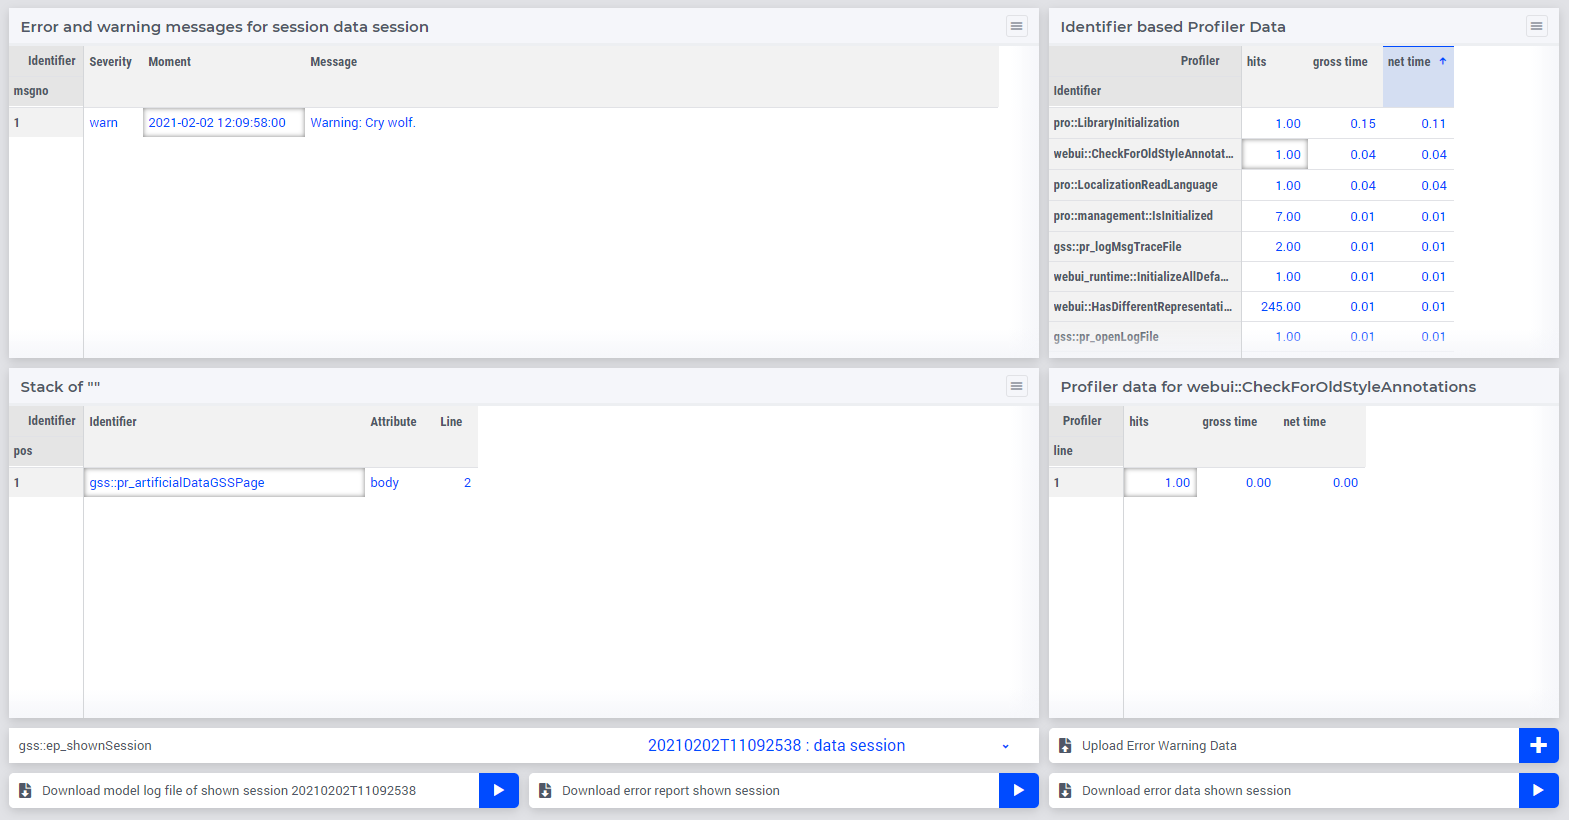
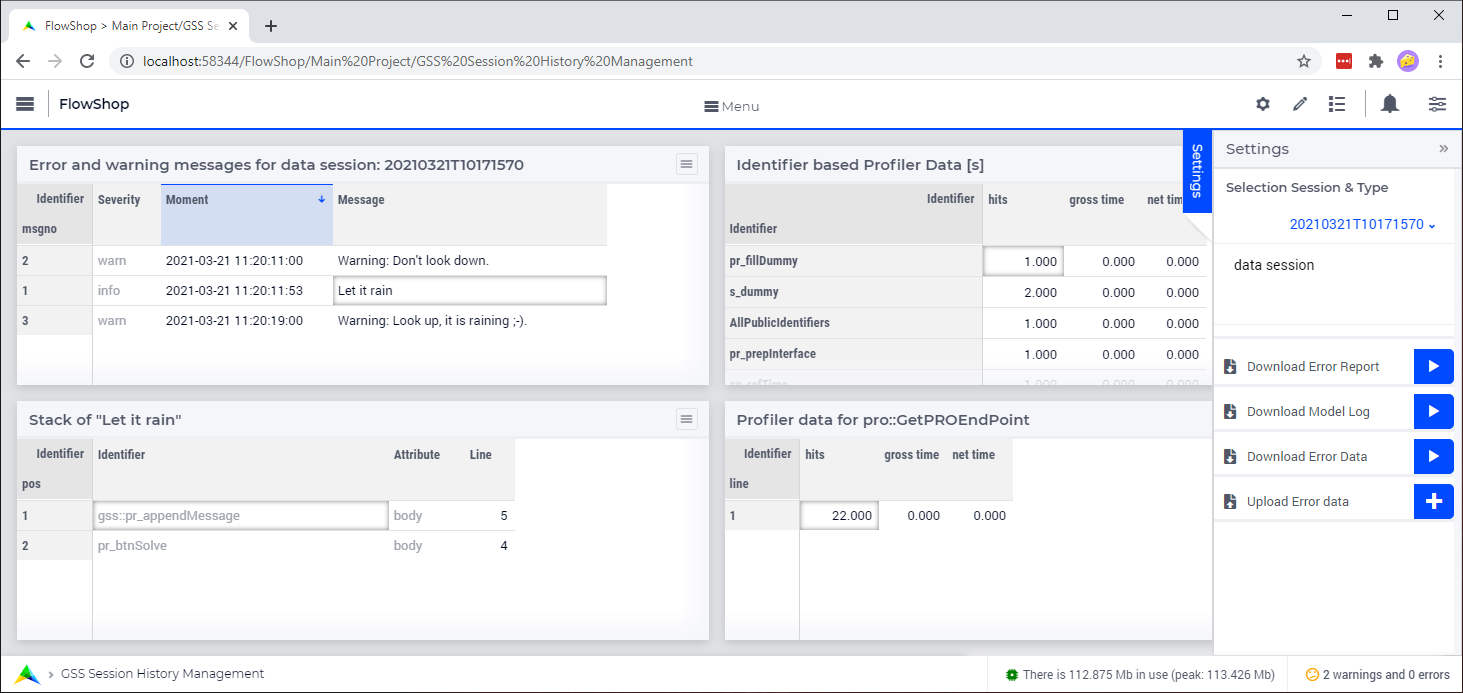
#310 Adapted documentation on how to create the "UI for specialists page"

diff --git a/Articles/310/310-install-gss-ui-for-specialists.rst b/Articles/310/310-install-gss-ui-for-specialists.rst
@@ -16,7 +16,10 @@ In this section, we create a sidepanel page first. This sidepanel wil be used in
 
 Create a side panel page with name ``sp_controls``. 
 Check the ``MainProject/WebUI/webui.json`` file; the page ``sp_controls`` should have "slug": ``sp_controls_1``.  
-If not, the slug needs to be renamed at two places in the ``webui.json`` file (with a closed AIMMS).
+If not, the slug needs to be renamed at two places in the ``webui.json`` file (with AIMMS closed).
+
+Status bar of your app should be set to ``gss::sp_messageStatusBar``, or to a string parameter that contains this information.
+
 
 Widgets on side panel
 ^^^^^^^^^^^^^^^^^^^^^^
@@ -61,10 +64,13 @@ The page ``GSS Session History Management`` has ``Action Upon Load`` set to ``gs
     
     If you have a multi page application, you might want to add this page to the group of "developer" or "control" pages in your application.
 
-Status bar of your app should be set to ``gss::sp_messageStatusBar``, or to a string parameter that contains this information.
+Make the page a grid page and give it standard layout 5, 
+see `Grid Layout for beautiful and consistent looking applications <https://community.aimms.com/aimms-webui-44/grid-layout-for-beautiful-and-consistent-looking-applications-728>`_
 
-Widgets
-^^^^^^^^^^^
+The page extensions > side panels property should be set to ```gss::sp_sidePanel``.
+
+Add the following Widgets
+^^^^^^^^^^^^^^^^^^^^^^^^^^^^^
 
 Below are the widgets recommended to build a user interface for the ``GuardServerSession`` library.
 
@@ -90,6 +96,8 @@ Below are the widgets recommended to build a user interface for the ``GuardServe
         #. Widget actions: ``gss::sp_widgetActionMessageList``
 
         #. Item actions: ``gss::sp_itemActionMessageList``
+        
+    Move this widget to Area A of the grid page
 
 #.  Table ``JobProfilerData``, titled: ``sp_titleProfilerOverview``
 
@@ -115,6 +123,9 @@ Below are the widgets recommended to build a user interface for the ``GuardServe
     
         #.  Item actions: ``gss::sp_itemActionIdentifierProfiler``
 
+    Move this widget to Area B of the grid page
+
+
 #.  Table ``ErrorWarningStack``, titled: ``gss::sp_titleStackMessage``
 
     #. Contents:
@@ -138,6 +149,8 @@ Below are the widgets recommended to build a user interface for the ``GuardServe
         #.  Widget actions: ``gss::sp_widgetActionMessageStack``
         #.  Item actions: ``gss::sp_itemActionMessageStack``
 
+    Move this widget to Area C of the grid page
+
 #.  Table ``LineBasedProfilerData``, titled: ``gss::sp_titleProfilerDetail``
 
     #. Contents: 
@@ -152,31 +165,24 @@ Below are the widgets recommended to build a user interface for the ``GuardServe
 
         index ``IndexIdentifiers`` --> element parameter ``gss::ep_profilerDataSelectedIdentifier``
 
-
+    Move this widget to Area D of the grid page
 
 
 Testing
 -----------
+
 To visually guide the adaption of the width of the columns of the tables, please run:
-    
+
     #.  ``gss::pr_artificialDataGSSPage`` to have an artificial warning message and 
-    
+
     #.  ``gss::pr_openPageErrorWarningProfiler`` to ensure the ``GSS Session History Management`` tables are filled properly.
-    
+
     And then start manually adapting the column widths such that the contents fit neatly.
-    
+
 Now the page should look as follows:
 
     .. image:: images/gss-page-design.png
         :align: center
-
-
-Further Reading
----------------------
-
-This article is part of the series :doc:`Indicident Handling for Organizations<../310/310-incident-handling-for-organizations>`.
-
- 
 
 
 
